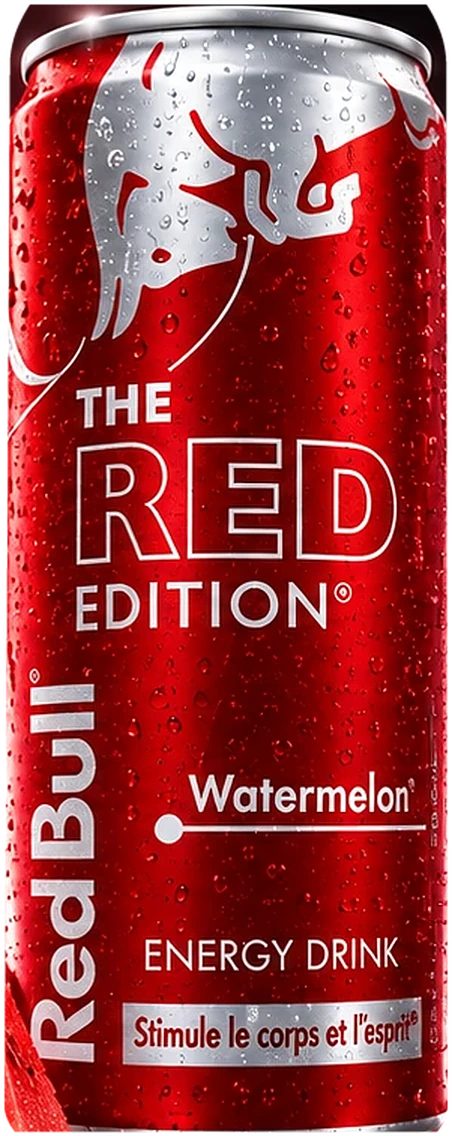
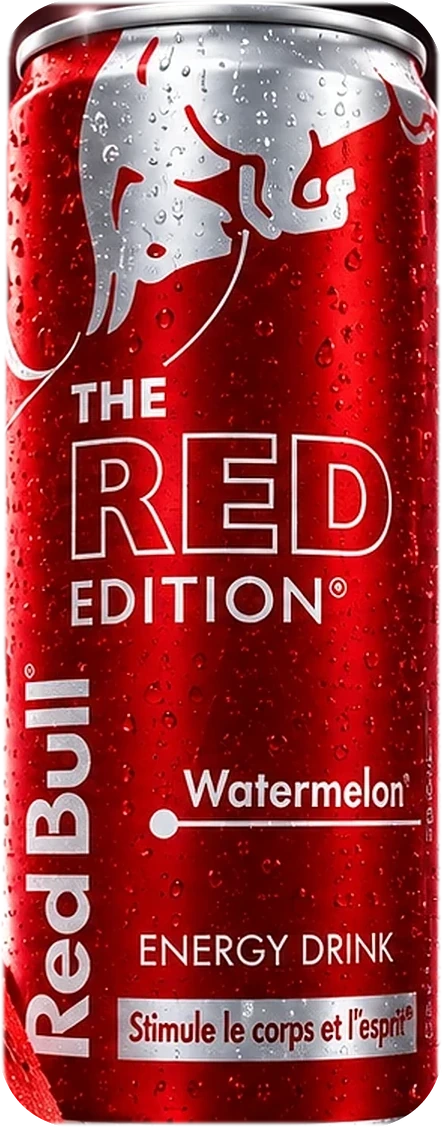
Index des canettes : canette 3D toujours visible (cache), découpes propres
- force le rechargement du moteur 3D (ancienne version gardée en cache par le navigateur)
- photo de secours au centre tant que la 3D n'est pas prête, et qui tourne si la 3D échoue
- contours des canettes rognés, adoucis et arrondis en haut et en bas

Claude-Session: https://claude.ai/code/session_016EaW4wJKL7vviJkX7cdaTQ

diff --git a/docs/redbull/index.html b/docs/redbull/index.html
@@ -8,7 +8,7 @@
 <meta name="theme-color" content="#08060f">
 <script type="importmap">{"imports":{"three":"./vendor/three.module.min.js"}}</script>
 <link rel="modulepreload" href="./vendor/three.module.min.js">
-<link rel="modulepreload" href="./can3d.js">
+<link rel="modulepreload" href="./can3d.js?v=4">
 <link rel="preconnect" href="https://fonts.googleapis.com">
 <link rel="preconnect" href="https://fonts.gstatic.com" crossorigin>
 <link rel="stylesheet" href="https://fonts.googleapis.com/css2?family=Archivo:ital,wght@0,400;0,500;0,900;1,900&family=JetBrains+Mono:wght@400&display=swap">
@@ -27,6 +27,8 @@ button{font:inherit;color:inherit;background:none;border:0;cursor:pointer;paddin
 .word{position:absolute;left:50%;top:50%;transform:translate(-50%,-50%);white-space:nowrap;font-weight:900;font-style:italic;font-size:clamp(90px,17vw,300px);line-height:.8;letter-spacing:-.04em;text-transform:uppercase;text-align:center;color:color-mix(in srgb,var(--c1) 45%,#fff 14%);opacity:0;transition:opacity .6s;pointer-events:none}
 .stage.info .word{opacity:.32}
 canvas#gl{position:absolute;inset:0;width:100%;height:100%;display:block;z-index:2;pointer-events:none}
+.center{position:absolute;left:50%;top:44%;height:calc(var(--ch) * .86);transform:translate(-50%,-50%) rotate(-8deg);z-index:2;transition:opacity .3s}
+html.gl .center{opacity:0}
 
 /* barre de progression */
 .prog{position:absolute;left:5vw;right:5vw;top:22px;height:1px;background:rgba(255,255,255,.14);z-index:5}
@@ -86,6 +88,7 @@ canvas#gl{position:absolute;inset:0;width:100%;height:100%;display:block;z-index
     <div class="brand">Index des canettes</div>
     <div class="word" id="word"></div>
     <canvas id="gl" aria-hidden="true"></canvas>
+    <img class="center" id="center" alt="">
 
     <div class="hero" id="hero">
       <div id="sides"></div>
@@ -168,6 +171,7 @@ function show(){
   $("#nm").textContent = f.tag;
   $("#knob").style.left = `${cur/(N-1)*100}%`;
   $("#word").textContent = f.short;
+  $("#center").src = f.img;
   $("#t0").textContent = f.name;
   $("#h0").textContent = f.tag;
   $("#p0").textContent = f.desc;
@@ -183,7 +187,7 @@ const STEPS = [[.12,.3],[.32,.52],[.54,.74],[.76,1.01]];
 const ANG = [[0,0],[.06,0],[.12,-28],[.3,-28],[.32,165],[.52,165],[.54,205],[.74,205],[.76,180],[.93,180],[1,360]];
 const TILT = [[0,8],[.06,8],[.12,14],[.3,14],[.32,-10],[.52,-10],[.54,8],[.74,8],[.76,-16],[1,-16]];
 function at(k,p){ for (let j=0;j<k.length-1;j++){ const a=k[j], b=k[j+1]; if (p>=a[0] && p<=b[0]) return lerp(a[1], b[1], ease(clamp((p-a[0])/((b[0]-a[0])||1)))); } return k[k.length-1][1]; }
-const story = $("#story"), stage = $("#stage"), prog = $("#prog");
+const story = $("#story"), stage = $("#stage"), prog = $("#prog"), center = $("#center");
 const steps = [...document.querySelectorAll(".step")], dots = [...document.querySelectorAll(".dots button")];
 dots.forEach((d,k) => d.onclick = () => scrollTo({ top: story.offsetTop + (STEPS[k][0] + .06) * M.len, behavior: reduce ? "auto" : "smooth" }));
 function measure(){
@@ -213,17 +217,19 @@ function frame(now){
   const bt = clamp((now - burstT) / 750), b = burst ? (1 - ease(bt)) * 360 * burst : 0;
   if (bt >= 1) burst = 0;
   const ang = at(ANG, p) - b, tilt = at(TILT, p);
-  const h = M.chf * (info ? (mob ? .7 : .9) : .94);
-  const y = mob && info ? -.12 : (info ? 0 : -.03);
+  const h = M.chf * (info ? (mob ? .7 : .9) : .86);
+  const y = mob && info ? -.12 : (info ? 0 : -.06);
+  if (!gl){ const c = Math.cos(ang*Math.PI/180); center.style.transform = `translate(-50%,-50%) translateY(${y*M.vh}px) rotate(${-tilt}deg) scale(${h/M.chf/.86}) scaleX(${Math.max(.05,Math.abs(c)).toFixed(3)})`; }
   if (gl) gl.update({ ang, tilt, x: 0, y, h, tx: fine ? tx*(info ? .25 : .6) : 0, ty: fine ? ty*.6 : 0, focus: p > .3 && p < .76 ? 1 : 0 });
   if (Math.abs(raw - sp) > 0 || Math.abs(mx - tx) > .002 || Math.abs(my - ty) > .002 || burst) kick();
 }
 show(); measure(); addEventListener("load", measure);
 (async () => {
   try {
-    const mod = await import("./can3d.js");
+    const mod = await import("./can3d.js?v=4");
     gl = await mod.create({ canvas: $("#gl"), lite, onChange: kick });
     await gl.set(F[cur], F[(cur+1)%N]); measure();
+    root.classList.add("gl");
   } catch (e) { console.warn("3D indisponible", e); }
 })();
 })();
